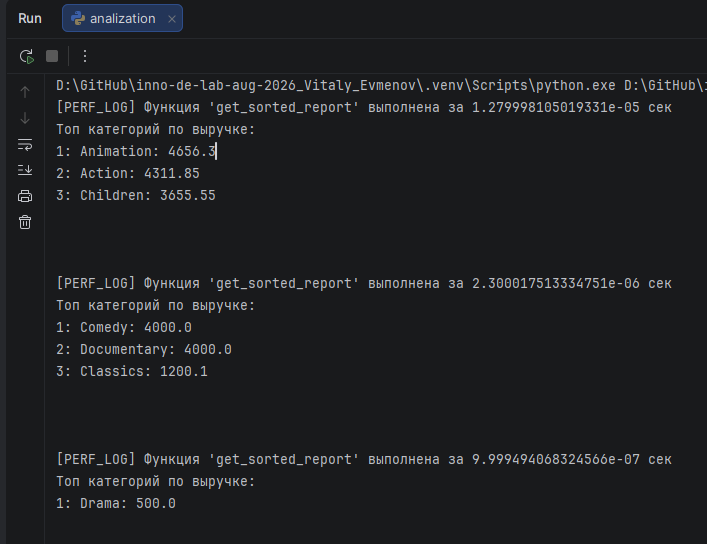
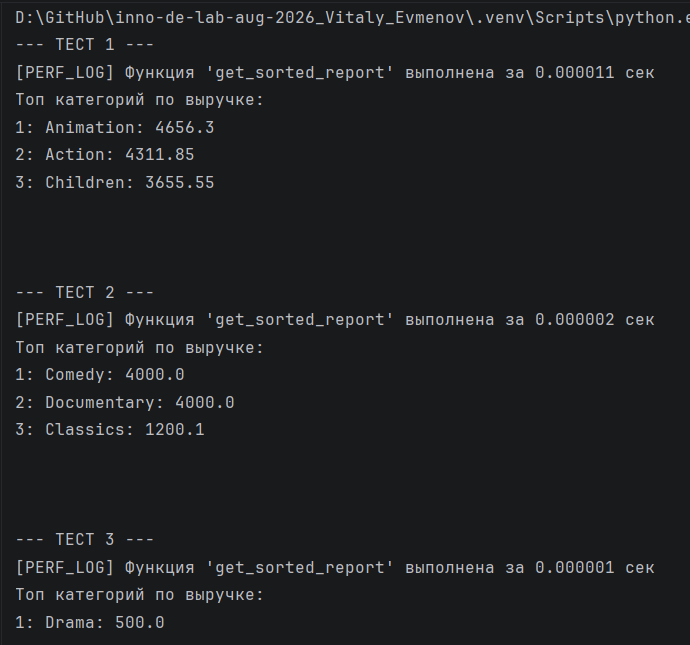
fix: analization
added time formating by CONSTANT

diff --git a/inno-de-lab_task_8/analization.py b/inno-de-lab_task_8/analization.py
@@ -45,7 +45,8 @@ def performance_logger(func):
         time_start = time.perf_counter()
         result = func(*args, **kwargs)
         time_end = time.perf_counter()
-        print(f"{PERFORMANCE_LOG_PREFIX} Функция '{func.__name__}' выполнена за {time_end - time_start} сек")
+        execution_time = time_end - time_start
+        print(f"{PERFORMANCE_LOG_PREFIX} Функция '{func.__name__}' выполнена за {execution_time:{TIME_DECIMALS}f} сек")
         return result
     return wrapper
 
